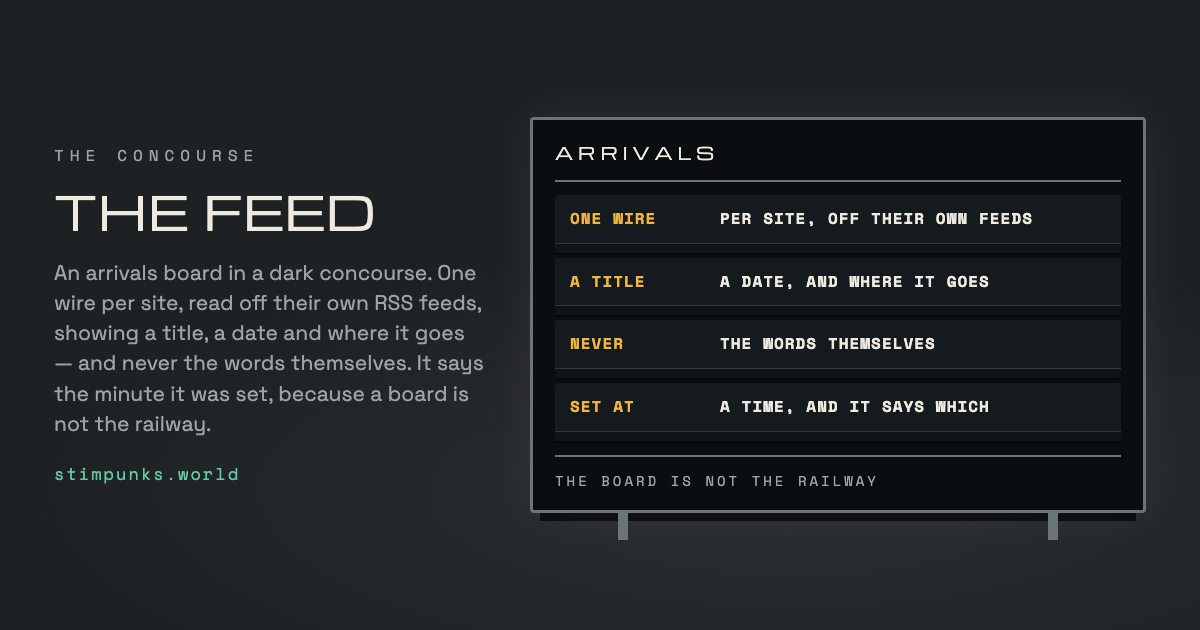
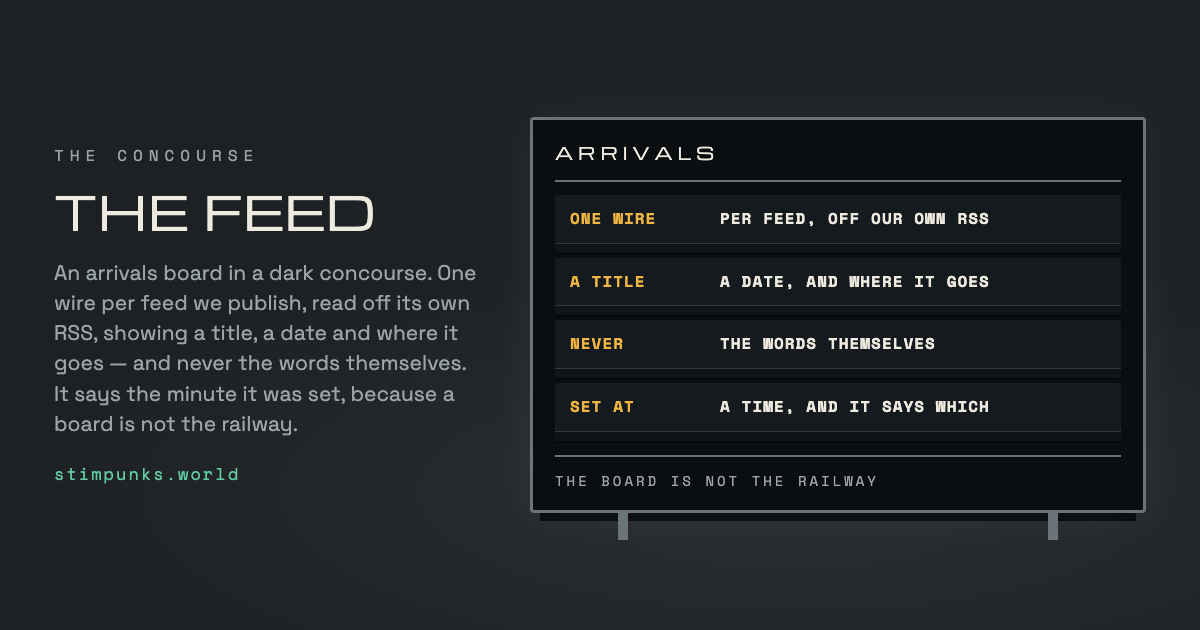
the feed: a board for the Brass Tacks Board, a second wire of this street
Right after the street's own wire, the one place in stimpunks.org's order it
goes without re-sorting anybody. It says `of: love`, so the Garden, one bed
per site, leaves it out, and the hall says one wire per feed now (the room,
its description, its door and its card). It may be empty: an empty board
shows one blank flap and the morning's board is still set. Its titles are a
moderator's own words, so a `<` in one does not stop the puller.

Changed region(s): [[0.0308, 0.4524, 0.4008, 0.6937], [0.7092, 0.3317, 0.8633, 0.3619], [0.6167, 0.3317, 0.6783, 0.3619]]

diff --git a/the-feed.html b/the-feed.html
@@ -4,20 +4,20 @@
 <meta charset="utf-8">
 <meta name="viewport" content="width=device-width, initial-scale=1">
 <title>The Feed &mdash; Stimpunks.World</title>
-<meta name="description" content="A split-flap arrivals board in a dark concourse, one wire per site, carrying the latest from stimpunks.org and every one of its sibling sites off their own RSS feeds. A title, a date and where it goes — never the words themselves. The board says the minute it was set, because a board is not the railway.">
+<meta name="description" content="A split-flap arrivals board in a dark concourse, one wire per feed, carrying the latest from stimpunks.org, every one of its sibling sites and this street&rsquo;s Brass Tacks Board off their own RSS feeds. A title, a date and where it goes — never the words themselves. The board says the minute it was set, because a board is not the railway.">
 <link rel="canonical" href="https://stimpunks.world/the-feed.html">
 <meta name="color-scheme" content="dark">
 <meta name="theme-color" content="#1D2124">
 <meta property="og:type" content="website">
 <meta property="og:site_name" content="Stimpunks.World">
 <meta property="og:title" content="The Feed &mdash; Stimpunks.World">
-<meta property="og:description" content="An arrivals board in a dark concourse. One wire per site, read off their own RSS feeds, showing a title, a date and where it goes — and never the words themselves. It says the minute it was set, because a board is not the railway.">
+<meta property="og:description" content="An arrivals board in a dark concourse. One wire per feed we publish, read off its own RSS, showing a title, a date and where it goes — and never the words themselves. It says the minute it was set, because a board is not the railway.">
 <meta property="og:url" content="https://stimpunks.world/the-feed.html">
 <meta property="og:image" content="https://stimpunks.world/og/the-feed.png">
 <meta property="og:image:type" content="image/png">
 <meta property="og:image:width" content="1200">
 <meta property="og:image:height" content="630">
-<meta property="og:image:alt" content="A dark concourse. On the left, small spaced monospaced capitals reading the concourse, then “The Feed” in very wide squared capitals, the line: An arrivals board in a dark concourse. One wire per site, read off their own RSS feeds, showing a title, a date and where it goes — and never the words themselves. It says the minute it was set, because a board is not the railway. and under it stimpunks.world in green. On the right, a freestanding split-flap indicator board standing on two metal legs and lit from inside, with a pale pool of its own light on the floor beneath it. A nameboard across the top reads ARRIVALS, and under it four machined rows, each a flap with a hairline seam across the middle of its letters and an amber cell on the left: ONE WIRE, per site, off their own feeds. A TITLE, a date, and where it goes. NEVER, the words themselves. SET AT, a time, and it says which. On a plate along the foot of the board: THE BOARD IS NOT THE RAILWAY.">
+<meta property="og:image:alt" content="A dark concourse. On the left, small spaced monospaced capitals reading the concourse, then “The Feed” in very wide squared capitals, the line: An arrivals board in a dark concourse. One wire per feed we publish, read off its own RSS, showing a title, a date and where it goes — and never the words themselves. It says the minute it was set, because a board is not the railway. and under it stimpunks.world in green. On the right, a freestanding split-flap indicator board standing on two metal legs and lit from inside, with a pale pool of its own light on the floor beneath it. A nameboard across the top reads ARRIVALS, and under it four machined rows, each a flap with a hairline seam across the middle of its letters and an amber cell on the left: ONE WIRE, per site, off their own feeds. A TITLE, a date, and where it goes. NEVER, the words themselves. SET AT, a time, and it says which. On a plate along the foot of the board: THE BOARD IS NOT THE RAILWAY.">
 <meta name="twitter:card" content="summary_large_image">
 <link rel="icon" href="favicon.svg" type="image/svg+xml">
 <link rel="icon" href="favicon.ico" sizes="32x32">
@@ -31,7 +31,7 @@
      stored choice wins over the media query, including a choice to turn it UP. -->
 <script>var d=document.documentElement,v=matchMedia('(prefers-reduced-motion: reduce)').matches?'gentle':'regular';try{var s=localStorage.getItem('love-intensity');if(s==='gentle'||s==='regular'||s==='max'){v=s;}}catch(e){}d.setAttribute('data-intensity',v);</script>
 <!-- structured-data:begin -->
-<script type="application/ld+json">{"@context":"https://schema.org","@graph":[{"@type":"WebSite","@id":"https://stimpunks.world/#website","name":"Stimpunks.World","url":"https://stimpunks.world/","description":"Queer without fear. Interdependent and here. Divergent and proud. Living out loud. One street, no two rooms alike, a garden through the gate in the wall, a campground past the treeline, and a dial that lets you decide how loud it gets. A Stimpunks Foundation site.","inLanguage":"en","publisher":{"@id":"https://stimpunks.org/#org"},"license":"https://creativecommons.org/licenses/by-sa/4.0/"},{"@type":"Organization","@id":"https://stimpunks.org/#org","name":"Stimpunks Foundation","url":"https://stimpunks.org/"},{"@type":"WebPage","@id":"https://stimpunks.world/the-feed.html#webpage","url":"https://stimpunks.world/the-feed.html","name":"The Feed — Stimpunks.World","description":"A split-flap arrivals board in a dark concourse, one wire per site, carrying the latest from stimpunks.org and every one of its sibling sites off their own RSS feeds. A title, a date and where it goes — never the words themselves. The board says the minute it was set, because a board is not the railway.","inLanguage":"en","isPartOf":{"@id":"https://stimpunks.world/#website"},"publisher":{"@id":"https://stimpunks.org/#org"}}]}</script>
+<script type="application/ld+json">{"@context":"https://schema.org","@graph":[{"@type":"WebSite","@id":"https://stimpunks.world/#website","name":"Stimpunks.World","url":"https://stimpunks.world/","description":"Queer without fear. Interdependent and here. Divergent and proud. Living out loud. One street, no two rooms alike, a garden through the gate in the wall, a campground past the treeline, and a dial that lets you decide how loud it gets. A Stimpunks Foundation site.","inLanguage":"en","publisher":{"@id":"https://stimpunks.org/#org"},"license":"https://creativecommons.org/licenses/by-sa/4.0/"},{"@type":"Organization","@id":"https://stimpunks.org/#org","name":"Stimpunks Foundation","url":"https://stimpunks.org/"},{"@type":"WebPage","@id":"https://stimpunks.world/the-feed.html#webpage","url":"https://stimpunks.world/the-feed.html","name":"The Feed — Stimpunks.World","description":"A split-flap arrivals board in a dark concourse, one wire per feed, carrying the latest from stimpunks.org, every one of its sibling sites and this street’s Brass Tacks Board off their own RSS feeds. A title, a date and where it goes — never the words themselves. The board says the minute it was set, because a board is not the railway.","inLanguage":"en","isPartOf":{"@id":"https://stimpunks.world/#website"},"publisher":{"@id":"https://stimpunks.org/#org"}}]}</script>
 <!-- structured-data:end -->
 </head>
 <body class="room-feed" id="top">
@@ -41,19 +41,19 @@
 
   <div class="concourse__top">
     <a class="backlink" href="index.html">&larr; back out to the street</a>
-    <p class="hall__where">Off the street &middot; one wire per site &middot; nothing in here is live</p>
+    <p class="hall__where">Off the street &middot; one wire per feed &middot; nothing in here is live</p>
   </div>
 
   <header class="hall">
     <p class="eyebrow">The concourse</p>
     <h1>The Feed</h1>
     <p class="hall__tagline">A board is set by somebody with a machine. It is a picture of the railway and it is not the railway.</p>
-    <p class="lede">Stimpunks is not one site. There is the big one, and there are the small ones each built to take one kind of weight off it, and every one of them publishes an <b>RSS feed</b> nobody needs an account to read. This room is a hall of indicator boards, one wire per site, showing what has most recently arrived on each.</p>
+    <p class="lede">Stimpunks is not one site. There is the big one, and there are the small ones each built to take one kind of weight off it, and every one of them publishes an <b>RSS feed</b> nobody needs an account to read. This room is a hall of indicator boards, one wire per feed, showing what has most recently arrived on each; this street has two, its changelog and <a href="brass-tacks-board.html">the Brass Tacks Board</a>.</p>
 <!-- arrivals:set:begin -->
-<p class="hall__set">This board was set at <b>11:16 UTC on 30 September 2026</b>. Every wire on it was read at that minute and has not been read since. The board is not the railway.</p>
+<p class="hall__set">This board was set at <b>00:52 UTC on 1 October 2026</b>. Every wire on it was read at that minute and has not been read since. The board is not the railway.</p>
 <!-- arrivals:set:end -->
 <!-- arrivals:shape:begin -->
-<p class="hall__shape">Eight wires are strung down this hall, carrying forty-four rows between them. A board here holds six, and Penguin Pebbling is showing three; the Map of Monotropic Experiences is showing five — because that is everything their feeds have on them.</p>
+<p class="hall__shape">Nine wires are strung down this hall, carrying forty-five rows between them. A board here holds six, and the Brass Tacks Board is showing one; Penguin Pebbling is showing three; the Map of Monotropic Experiences is showing five — because that is everything their feeds have on them.</p>
 <!-- arrivals:shape:end -->
   </header>
 
@@ -85,7 +85,7 @@
       <li class="flap"><span class="flap__when"><time datetime="2026-09-16T10:32:19Z">2026-09-16</time></span><span class="flap__dest"><a href="https://stimpunks.org/2026/09/16/stimpunks-org-changelog-for-week-37-2026-from-the-gate-to-the-instrument-from-the-byline-to-the-label/">Stimpunks.org Changelog for Week 37 2026: From the Gate to the Instrument, From the Byline to the Label</a></span><span class="flap__split" aria-hidden="true"></span></li>
       <li class="flap"><span class="flap__when"><time datetime="2026-09-16T01:46:50Z">2026-09-16</time></span><span class="flap__dest"><a href="https://stimpunks.org/2026/09/15/our-sibling-sites/">Our Sibling Sites</a></span><span class="flap__split" aria-hidden="true"></span></li>
     </ol>
-    <p class="enamel"><span class="enamel__feed">Wire: the blog &mdash; <a href="https://stimpunks.org/feed/">stimpunks.org/feed/</a></span><span class="enamel__read">Read at 11:16 UTC on 30 September 2026</span></p>
+    <p class="enamel"><span class="enamel__feed">Wire: the blog &mdash; <a href="https://stimpunks.org/feed/">stimpunks.org/feed/</a></span><span class="enamel__read">Read at 00:52 UTC on 1 October 2026</span></p>
   </section>
   <section class="indicator" aria-labelledby="wire-starstuff">
     <div class="indicator__head">
@@ -101,7 +101,7 @@
       <li class="flap"><span class="flap__when"><time datetime="2026-09-12T16:38:06Z">2026-09-12</time></span><span class="flap__dest"><a href="https://starstuff.earth/a-bit-of-scruff-zine.html">A Bit of Scruff</a></span><span class="flap__split" aria-hidden="true"></span></li>
     </ol>
     <p class="indicator__also">This site keeps another feed as well: <a href="https://starstuff.earth/changelog.xml">the changelog</a>. This wire is not that one.</p>
-    <p class="enamel"><span class="enamel__feed">Wire: What&#x27;s New &mdash; <a href="https://starstuff.earth/feed.xml">starstuff.earth/feed.xml</a></span><span class="enamel__read">Read at 11:16 UTC on 30 September 2026</span></p>
+    <p class="enamel"><span class="enamel__feed">Wire: What&#x27;s New &mdash; <a href="https://starstuff.earth/feed.xml">starstuff.earth/feed.xml</a></span><span class="enamel__read">Read at 00:52 UTC on 1 October 2026</span></p>
   </section>
   <section class="indicator" aria-labelledby="wire-queering">
     <div class="indicator__head">
@@ -117,7 +117,7 @@
       <li class="flap"><span class="flap__when"><time datetime="2026-09-11T12:00:00Z">2026-09-11</time></span><span class="flap__dest"><a href="https://queering.earth/gloomy-sunflowers">My Gloomy Sunflowers</a></span><span class="flap__split" aria-hidden="true"></span></li>
     </ol>
     <p class="indicator__also">This site keeps another feed as well: <a href="https://queering.earth/register.xml">the accession register</a>. This wire is not that one.</p>
-    <p class="enamel"><span class="enamel__feed">Wire: what has arrived &mdash; <a href="https://queering.earth/feed.xml">queering.earth/feed.xml</a></span><span class="enamel__read">Read at 11:16 UTC on 30 September 2026</span></p>
+    <p class="enamel"><span class="enamel__feed">Wire: what has arrived &mdash; <a href="https://queering.earth/feed.xml">queering.earth/feed.xml</a></span><span class="enamel__read">Read at 00:52 UTC on 1 October 2026</span></p>
   </section>
   <section class="indicator" aria-labelledby="wire-cavendish">
     <div class="indicator__head">
@@ -132,7 +132,7 @@
       <li class="flap"><span class="flap__when"><time datetime="2026-09-15T00:00:00Z">2026-09-15</time></span><span class="flap__dest"><a href="https://cavendish.space/changelog.html#2026-09-15">2026-09-15 — Site</a></span><span class="flap__split" aria-hidden="true"></span></li>
       <li class="flap"><span class="flap__when"><time datetime="2026-07-21T00:00:00Z">2026-07-21</time></span><span class="flap__dest"><a href="https://cavendish.space/changelog.html#2026-07-21">2026-07-21 — Deck and Site</a></span><span class="flap__split" aria-hidden="true"></span></li>
     </ol>
-    <p class="enamel"><span class="enamel__feed">Wire: the changelog &mdash; <a href="https://cavendish.space/feed.xml">cavendish.space/feed.xml</a></span><span class="enamel__read">Read at 11:16 UTC on 30 September 2026</span></p>
+    <p class="enamel"><span class="enamel__feed">Wire: the changelog &mdash; <a href="https://cavendish.space/feed.xml">cavendish.space/feed.xml</a></span><span class="enamel__read">Read at 00:52 UTC on 1 October 2026</span></p>
   </section>
   <section class="indicator" aria-labelledby="wire-pebbling">
     <div class="indicator__head">
@@ -144,7 +144,7 @@
       <li class="flap"><span class="flap__when"><time datetime="2026-09-15T12:00:00Z">2026-09-15</time></span><span class="flap__dest"><a href="https://penguinpebbling.app/changelog#2026-09-15">15 September 2026</a></span><span class="flap__split" aria-hidden="true"></span></li>
       <li class="flap"><span class="flap__when"><time datetime="2026-09-14T12:00:00Z">2026-09-14</time></span><span class="flap__dest"><a href="https://penguinpebbling.app/changelog#2026-09-14">14 September 2026</a></span><span class="flap__split" aria-hidden="true"></span></li>
     </ol>
-    <p class="enamel"><span class="enamel__feed">Wire: the changelog &mdash; <a href="https://penguinpebbling.app/feed.xml">penguinpebbling.app/feed.xml</a></span><span class="enamel__read">Read at 11:16 UTC on 30 September 2026</span></p>
+    <p class="enamel"><span class="enamel__feed">Wire: the changelog &mdash; <a href="https://penguinpebbling.app/feed.xml">penguinpebbling.app/feed.xml</a></span><span class="enamel__read">Read at 00:52 UTC on 1 October 2026</span></p>
   </section>
   <section class="indicator" aria-labelledby="wire-whysheet">
     <div class="indicator__head">
@@ -159,7 +159,7 @@
       <li class="flap"><span class="flap__when"><time datetime="2026-09-19T12:00:00Z">2026-09-19</time></span><span class="flap__dest"><a href="https://whysheet.press/changelog/#2026-09-19-aac-is-not-a-last-resort">AAC Is Not a Last Resort</a></span><span class="flap__split" aria-hidden="true"></span></li>
       <li class="flap"><span class="flap__when"><time datetime="2026-09-19T11:59:00Z">2026-09-19</time></span><span class="flap__dest"><a href="https://whysheet.press/changelog/#2026-09-19-prompts-for-work-and-clinic">Prompts for work and clinic</a></span><span class="flap__split" aria-hidden="true"></span></li>
     </ol>
-    <p class="enamel"><span class="enamel__feed">Wire: the press &mdash; <a href="https://whysheet.press/feed.xml">whysheet.press/feed.xml</a></span><span class="enamel__read">Read at 11:16 UTC on 30 September 2026</span></p>
+    <p class="enamel"><span class="enamel__feed">Wire: the press &mdash; <a href="https://whysheet.press/feed.xml">whysheet.press/feed.xml</a></span><span class="enamel__read">Read at 00:52 UTC on 1 October 2026</span></p>
   </section>
   <section class="indicator" aria-labelledby="wire-love">
     <div class="indicator__head">
@@ -167,14 +167,24 @@
       <p class="indicator__what">This street. Its own changelog, read over the network like every other wire rather than lifted out of the file next door, so this board can be wrong about this site too.</p>
     </div>
     <ol class="flaps">
-      <li class="flap"><span class="flap__when"><time datetime="2026-09-30T12:00:00Z">2026-09-30</time></span><span class="flap__dest"><a href="https://stimpunks.world/changelog.html#2026-09-30-mission-manifesto">A mission and a manifesto for the street</a></span><span class="flap__split" aria-hidden="true"></span></li>
-      <li class="flap"><span class="flap__when"><time datetime="2026-09-29T12:00:00Z">2026-09-29</time></span><span class="flap__dest"><a href="https://stimpunks.world/changelog.html#2026-09-29-samefood-norah">Norah’s tray at Samefood Cafe</a></span><span class="flap__split" aria-hidden="true"></span></li>
-      <li class="flap"><span class="flap__when"><time datetime="2026-09-29T11:59:00Z">2026-09-29</time></span><span class="flap__dest"><a href="https://stimpunks.world/changelog.html#2026-09-29-neurohome">NeuroHome, the first room somebody built for themselves</a></span><span class="flap__split" aria-hidden="true"></span></li>
-      <li class="flap"><span class="flap__when"><time datetime="2026-09-29T11:58:00Z">2026-09-29</time></span><span class="flap__dest"><a href="https://stimpunks.world/changelog.html#2026-09-29-sweetgrass-fires">The fires in the pit at Swaying Sweetgrass</a></span><span class="flap__split" aria-hidden="true"></span></li>
-      <li class="flap"><span class="flap__when"><time datetime="2026-09-29T11:57:00Z">2026-09-29</time></span><span class="flap__dest"><a href="https://stimpunks.world/changelog.html#2026-09-29-doom-scoop-screens">A screen in every tub at The Doom Scoop</a></span><span class="flap__split" aria-hidden="true"></span></li>
-      <li class="flap"><span class="flap__when"><time datetime="2026-09-29T11:56:00Z">2026-09-29</time></span><span class="flap__dest"><a href="https://stimpunks.world/changelog.html#2026-09-29-club-rack">Club Chronic’s records go up on the stage</a></span><span class="flap__split" aria-hidden="true"></span></li>
+      <li class="flap"><span class="flap__when"><time datetime="2026-09-30T12:00:00Z">2026-09-30</time></span><span class="flap__dest"><a href="https://stimpunks.world/changelog.html#2026-09-30-brass-tacks-board">The Brass Tacks Board</a></span><span class="flap__split" aria-hidden="true"></span></li>
+      <li class="flap"><span class="flap__when"><time datetime="2026-09-30T11:59:00Z">2026-09-30</time></span><span class="flap__dest"><a href="https://stimpunks.world/changelog.html#2026-09-30-any-emoji">More reactions, and any emoji at all</a></span><span class="flap__split" aria-hidden="true"></span></li>
+      <li class="flap"><span class="flap__when"><time datetime="2026-09-30T11:58:00Z">2026-09-30</time></span><span class="flap__dest"><a href="https://stimpunks.world/changelog.html#2026-09-30-reactions">Reactions on the CB</a></span><span class="flap__split" aria-hidden="true"></span></li>
+      <li class="flap"><span class="flap__when"><time datetime="2026-09-30T11:57:00Z">2026-09-30</time></span><span class="flap__dest"><a href="https://stimpunks.world/changelog.html#2026-09-30-rescue-small-animals">Rescue Small Animals</a></span><span class="flap__split" aria-hidden="true"></span></li>
+      <li class="flap"><span class="flap__when"><time datetime="2026-09-30T11:56:00Z">2026-09-30</time></span><span class="flap__dest"><a href="https://stimpunks.world/changelog.html#2026-09-30-show-off-pets">Pet stickers, and pressing a handle to see somebody’s pets</a></span><span class="flap__split" aria-hidden="true"></span></li>
+      <li class="flap"><span class="flap__when"><time datetime="2026-09-30T11:55:00Z">2026-09-30</time></span><span class="flap__dest"><a href="https://stimpunks.world/changelog.html#2026-09-30-rename-pets">Rename your pets</a></span><span class="flap__split" aria-hidden="true"></span></li>
     </ol>
-    <p class="enamel"><span class="enamel__feed">Wire: what changed on the street &mdash; <a href="https://stimpunks.world/feed.xml">stimpunks.world/feed.xml</a></span><span class="enamel__read">Read at 11:16 UTC on 30 September 2026</span></p>
+    <p class="enamel"><span class="enamel__feed">Wire: what changed on the street &mdash; <a href="https://stimpunks.world/feed.xml">stimpunks.world/feed.xml</a></span><span class="enamel__read">Read at 00:52 UTC on 1 October 2026</span></p>
+  </section>
+  <section class="indicator" aria-labelledby="wire-brass">
+    <div class="indicator__head">
+      <h3 class="indicator__name" id="wire-brass"><a href="https://stimpunks.world/brass-tacks-board.html">The Brass Tacks Board</a></h3>
+      <p class="indicator__what">This street&#x27;s board for what has to stay put: news, notices, events and celebrations, posted by our moderators with their names on them. A second feed of this street, not a site of its own, read over the network like every other wire.</p>
+    </div>
+    <ol class="flaps">
+      <li class="flap"><span class="flap__when"><time datetime="2026-10-01T00:44:17Z">2026-10-01</time></span><span class="flap__dest"><a href="https://stimpunks.world/brass-tacks-board.html#post-87e50537-8cb3-4186-b411-1df98912d533">Open Source Communication All the Way</a></span><span class="flap__split" aria-hidden="true"></span></li>
+    </ol>
+    <p class="enamel"><span class="enamel__feed">Wire: the board&#x27;s posts &mdash; <a href="https://stimpunks.world/brass-tacks.xml">stimpunks.world/brass-tacks.xml</a></span><span class="enamel__read">Read at 00:52 UTC on 1 October 2026</span></p>
   </section>
   <section class="indicator" aria-labelledby="wire-monotropic">
     <div class="indicator__head">
@@ -188,7 +198,7 @@
       <li class="flap"><span class="flap__when"><time datetime="2026-09-16T00:00:00Z">2026-09-16</time></span><span class="flap__dest"><a href="https://monotropicmap.org/changelog#2026-09-16-helen-s-review-came-back">Helen&#x27;s review came back</a></span><span class="flap__split" aria-hidden="true"></span></li>
       <li class="flap"><span class="flap__when"><time datetime="2026-09-15T00:00:00Z">2026-09-15</time></span><span class="flap__dest"><a href="https://monotropicmap.org/changelog#2026-09-15-the-site-went-live">the site went live</a></span><span class="flap__split" aria-hidden="true"></span></li>
     </ol>
-    <p class="enamel"><span class="enamel__feed">Wire: the changelog &mdash; <a href="https://monotropicmap.org/feed.xml">monotropicmap.org/feed.xml</a></span><span class="enamel__read">Read at 11:16 UTC on 30 September 2026</span></p>
+    <p class="enamel"><span class="enamel__feed">Wire: the changelog &mdash; <a href="https://monotropicmap.org/feed.xml">monotropicmap.org/feed.xml</a></span><span class="enamel__read">Read at 00:52 UTC on 1 October 2026</span></p>
   </section>
 <!-- arrivals:hall:end -->
 

diff --git a/changelog.html b/changelog.html
@@ -41,6 +41,13 @@
   <p class="lede">What changed on the street, and when. Every Stimpunks site publishes one of these.</p>
   <p style="margin-top:-6px;"><a href="feed.xml">Subscribe to this page</a> &mdash; the feed is generated from it, so the two cannot disagree.</p>
 
+  <h2 id="2026-10-01-brass-tacks-on-the-feed">2026-10-01 &mdash; The Brass Tacks Board on The Feed</h2>
+  <ul>
+    <li><strong><a href="the-feed.html">The Feed</a> has a board for the Brass Tacks Board now</strong>, right after this street&rsquo;s own, which is the one place in stimpunks.org&rsquo;s order it can go without re-sorting anybody else. Ryan&rsquo;s ask.</li>
+    <li>It is <strong>a second feed of this street, not a site of its own</strong>, so the hall says &ldquo;one wire per feed&rdquo; now, and <a href="the-garden.html">the Garden</a>, which plants one bed for every site we publish, leaves it out.</li>
+    <li><strong>It may be empty.</strong> A board with every post taken down is a board, not a broken feed, so it shows one blank flap saying so, and the morning&rsquo;s board is still set. Its titles are a moderator&rsquo;s own words, so a &ldquo;&lt;&rdquo; typed in one does not stop the board being set either. Changed: <code>data/arrivals.json</code>, <code>tools/pull-arrivals.py</code>, <code>tools/make-arrivals.py</code>, <code>tools/make-garden.py</code>, <code>tools/make-og.py</code>, <code>the-feed.html</code>.</li>
+  </ul>
+
   <h2 id="2026-09-30-brass-tacks-board">2026-09-30 &mdash; The Brass Tacks Board</h2>
   <ul>
     <li><strong>New on the pavement, beside the Pebble Board: <a href="brass-tacks-board.html">the Brass Tacks Board</a></strong>, for things meant to last. News, notices, events, celebrations and posts, each on a brass plate tacked to a wall of old copper gone green, kept until it is taken down. Anybody can read it, and it has <a href="/brass-tacks.xml">a feed of its own</a>. Ryan&rsquo;s brief.</li>

diff --git a/love.css b/love.css
@@ -8663,6 +8663,14 @@ html[data-intensity="max"] .guild-spark { animation: gu-rise 2.1s ease-out forwa
   text-decoration-color: var(--fd-girder); text-underline-offset: 4px;
 }
 .flap__dest a:hover { color: var(--fd-amber); text-decoration-color: var(--fd-amber); }
+/* A board with nothing on it: one blank flap, saying so in the lamp's own
+   letter, so an empty board looks like a board that is empty rather than a
+   board that is broken. Only the Brass Tacks Board's wire may be empty. */
+.flaps--empty {
+  display: block; background: var(--fd-flap); border-radius: 2px; padding: 11px 14px 12px;
+  box-shadow: 0 2px 0 rgba(4,7,10,.9);
+  font-family: 'Space Mono', ui-monospace, monospace; font-weight: 700; font-size: 14.5px; color: var(--fd-lamp);
+}
 /* THE LOWER LEAF OF THE FLAP, and the lit fold along the top of it. It sits at
    the FOOT of the row and crosses no letter, and getting here took two goes at
    the same mistake.

diff --git a/index.html b/index.html
@@ -199,7 +199,7 @@
       <span class="door__awning" aria-hidden="true"></span>
       <span class="door__body">
         <span><span class="door__name">The Feed</span>
-        <span class="door__blurb">A hall of split-flap arrival boards, one wire per site, read off our own RSS feeds. A title, a date and where it goes &mdash; never the words themselves. It says the minute it was set.</span></span>
+        <span class="door__blurb">A hall of split-flap arrival boards, one wire per feed, read off our own RSS feeds. A title, a date and where it goes &mdash; never the words themselves. It says the minute it was set.</span></span>
         <span class="door__knock">check the board &rarr;</span>
       </span>
     </a></li>

diff --git a/tools/make-arrivals.py b/tools/make-arrivals.py
@@ -171,7 +171,8 @@ def indicator(w):
         f'<a href="{e(w["home"])}">{e(w["site"])}</a></h3>\n'
         f'      <p class="indicator__what">{e(w["note"])}</p>\n'
         f'    </div>\n'
-        f'    <ol class="flaps">\n' + "\n".join(rows) + "\n    </ol>\n"
+        + (f'    <ol class="flaps">\n' + "\n".join(rows) + "\n    </ol>\n" if rows else
+           f'    <p class="flaps flaps--empty">Nothing is pinned up on it just now.</p>\n')
         + second +
         f'    <p class="enamel">'
         f'<span class="enamel__feed">Wire: {e(w["feed_name"])} &mdash; '
@@ -194,8 +195,10 @@ def main():
         for k in ("id", "site", "host", "home", "feed", "feed_name", "note", "read"):
             if not w.get(k):
                 die(f"wire {w.get('id') or w!r} is missing {k}.")
-        if not w.get("items"):
+        if not w.get("items") and not w.get("empty_ok"):
             die(f"wire {w['id']} has no rows on it. Run tools/pull-arrivals.py.")
+        if w.get("of") and not any(x["id"] == w["of"] and x["host"] == w["host"] for x in wires):
+            die(f"wire {w['id']} says it is a second feed of {w['of']!r}, which is not a wire on the same host.")
         if w.get("second") and not w.get("second_name"):
             die(f"wire {w['id']} names a second feed without saying what it is.")
         for it in w["items"]:
@@ -227,7 +230,10 @@ def main():
     # make-jungle.py's first version generated a number and left the tail
     # plural, which is a hand-typed count in a disguise.
     full = max(len(w["items"]) for w in wires)
-    short = [w for w in wires if len(w["items"]) < full]
+    # A board with nothing on it is said in its own words, never as a count of
+    # rows it does not have.
+    empty = [w for w in wires if not w["items"]]
+    short = [w for w in wires if 0 < len(w["items"]) < full]
     total = sum(len(w["items"]) for w in wires)
 
     shape = (
@@ -248,6 +254,10 @@ def main():
         )
     else:
         shape += f" Every one of them is showing {word(full)}, which is as many as a board here holds."
+    if empty:
+        who = listify([w.get('prose') or w['site'] for w in empty])
+        shape += (f" {who[:1].upper()}{who[1:]} "
+                  f"{'has' if len(empty) == 1 else 'have'} nothing on {'it' if len(empty) == 1 else 'them'} just now.")
 
     src = PAGE.read_text()
 

diff --git a/tools/pull-arrivals.py b/tools/pull-arrivals.py
@@ -132,7 +132,7 @@ def parse(xml, wire):
         when = (item.findtext("pubDate") or "").strip()
         if not title:
             die(f"{wire['feed']} has an item with no title.")
-        if TAG.search(title) or ENTITY.search(title):
+        if not wire.get("typed_titles") and (TAG.search(title) or ENTITY.search(title)):
             die(
                 f"{wire['feed']}: this title still has markup in it and would reach "
                 f"the page as literal characters:\n  {title}"
@@ -164,7 +164,7 @@ def parse(xml, wire):
             "date": dt.astimezone(timezone.utc).strftime("%Y-%m-%dT%H:%M:%SZ"),
         })
 
-    if not out:
+    if not out and not wire.get("empty_ok"):
         die(f"{wire['feed']} answered 200 with no items in it.")
     # SORTED HERE rather than trusted: the Doomscroll's rule. A feed is supposed
     # to be newest-first, and a generator per wire is a chance per wire for one not to be.

diff --git a/tools/make-og.py b/tools/make-og.py
@@ -2509,7 +2509,7 @@ def card_feed(p):
     # authoritative-looking in the meantime. So the machine on the card is
     # lettered with what is permanently true of it.
     rows = [
-        ("One wire", "per site, off their own feeds"),
+        ("One wire", "per feed, off our own RSS"),
         ("A title", "a date, and where it goes"),
         ("Never", "the words themselves"),
         ("Set at", "a time, and it says which"),

diff --git a/tools/make-garden.py b/tools/make-garden.py
@@ -610,7 +610,9 @@ beds = raw["beds"]
 plots = raw.get("neighbours", {})
 problems = []
 
-order = [w["id"] for w in wires]
+# One bed per SITE: a wire that is a second feed of a site already on the
+# roster (`of`, the Brass Tacks Board's) is not a site we publish.
+order = [w["id"] for w in wires if not w.get("of")]
 missing = [i for i in order if i not in beds]
 stray = [i for i in beds if i not in order]
 if missing:

diff --git a/CLAUDE.md b/CLAUDE.md
@@ -2880,7 +2880,9 @@ refuses `innerHTML` and its relatives in `brass.js`. The friendly edit is a Mark
 `innerHTML`, which is a script on a page everybody reads the day a moderator's pass is stolen. **A
 picture goes through the radio's one redraw** (`window.loveRedraw`, cb.js), needs a description and the
 moderator's yes for everybody recognisable in it, lives under `brass-img/` so the channel's sweep never
-touches it, and is public, because the board is. It is street furniture beside the Pebble Board, a plate
+touches it, and is public, because the board is. **It is on The Feed as a second wire of this street** (`of: love` in `data/arrivals.json`), which the
+Garden skips because it plants one bed per site; it may be empty (`empty_ok`) and its titles are typed
+(`typed_titles`), so neither an empty board nor a `<` in a title stops the morning's board. It is street furniture beside the Pebble Board, a plate
 in the street's orange, and its own world is a verdigris wall of brass plates (§90). Plural Mural's
 chalkboard is the community's and forgets in a week; this is the moderators' and keeps.
 
